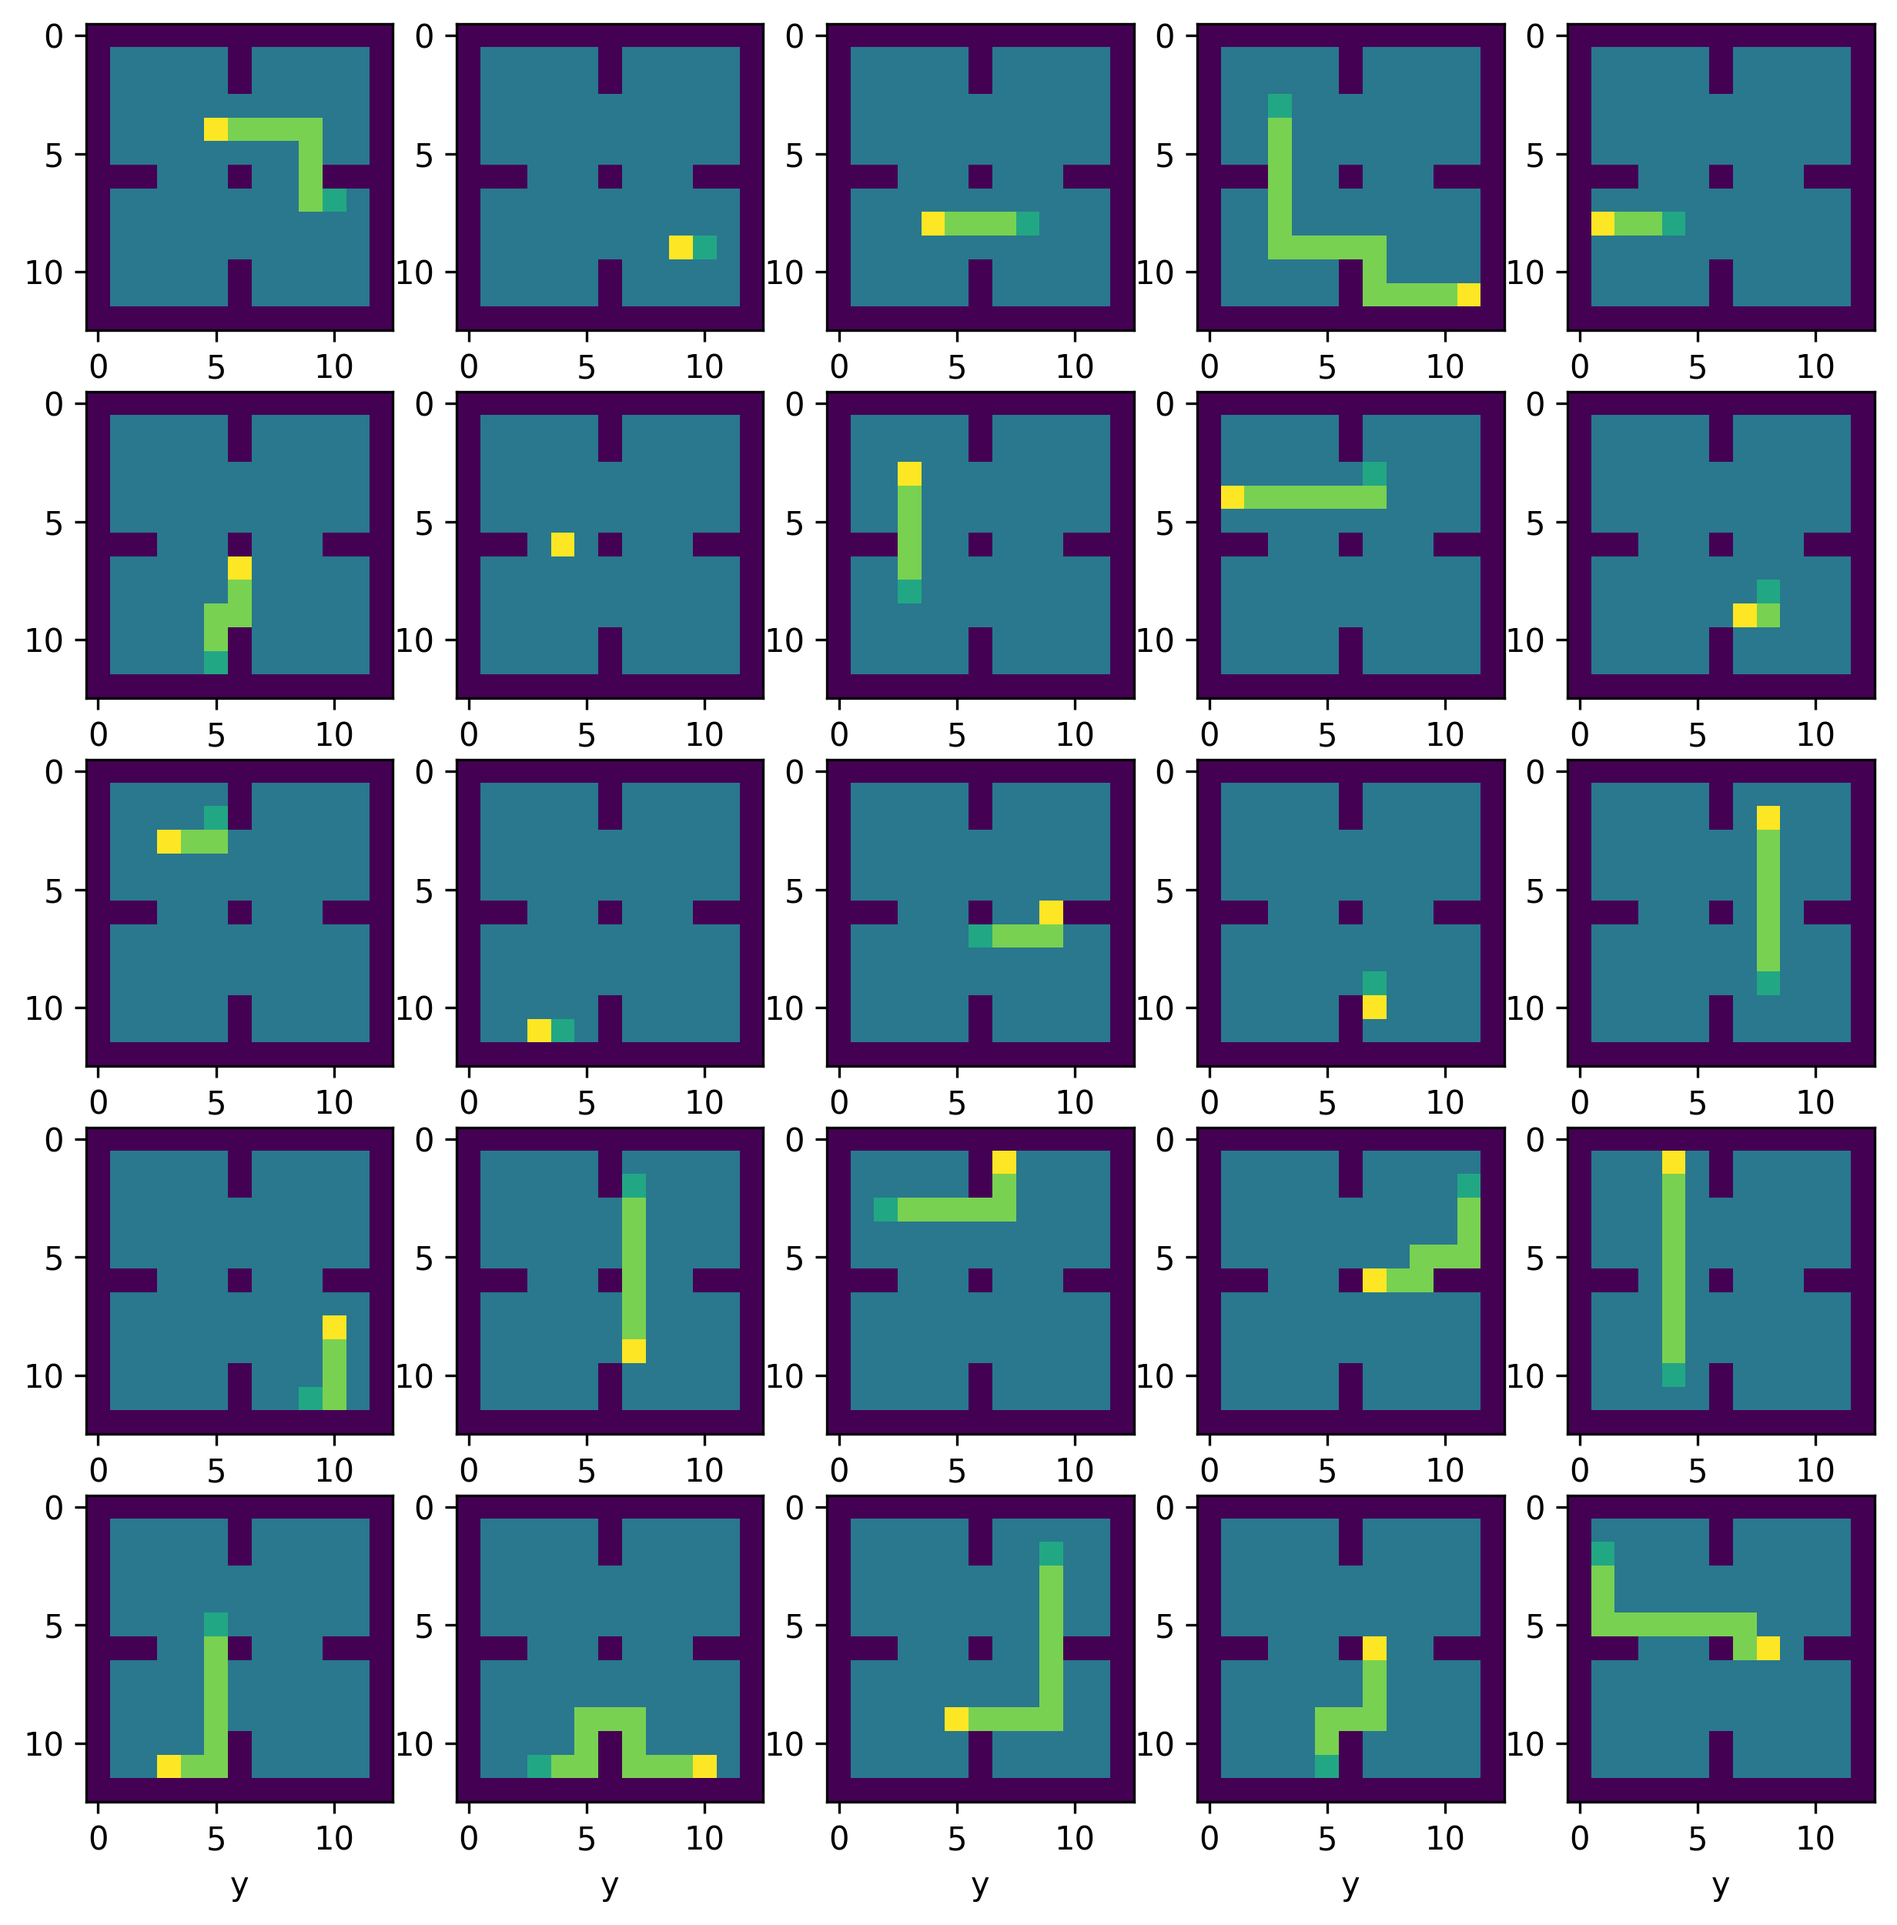
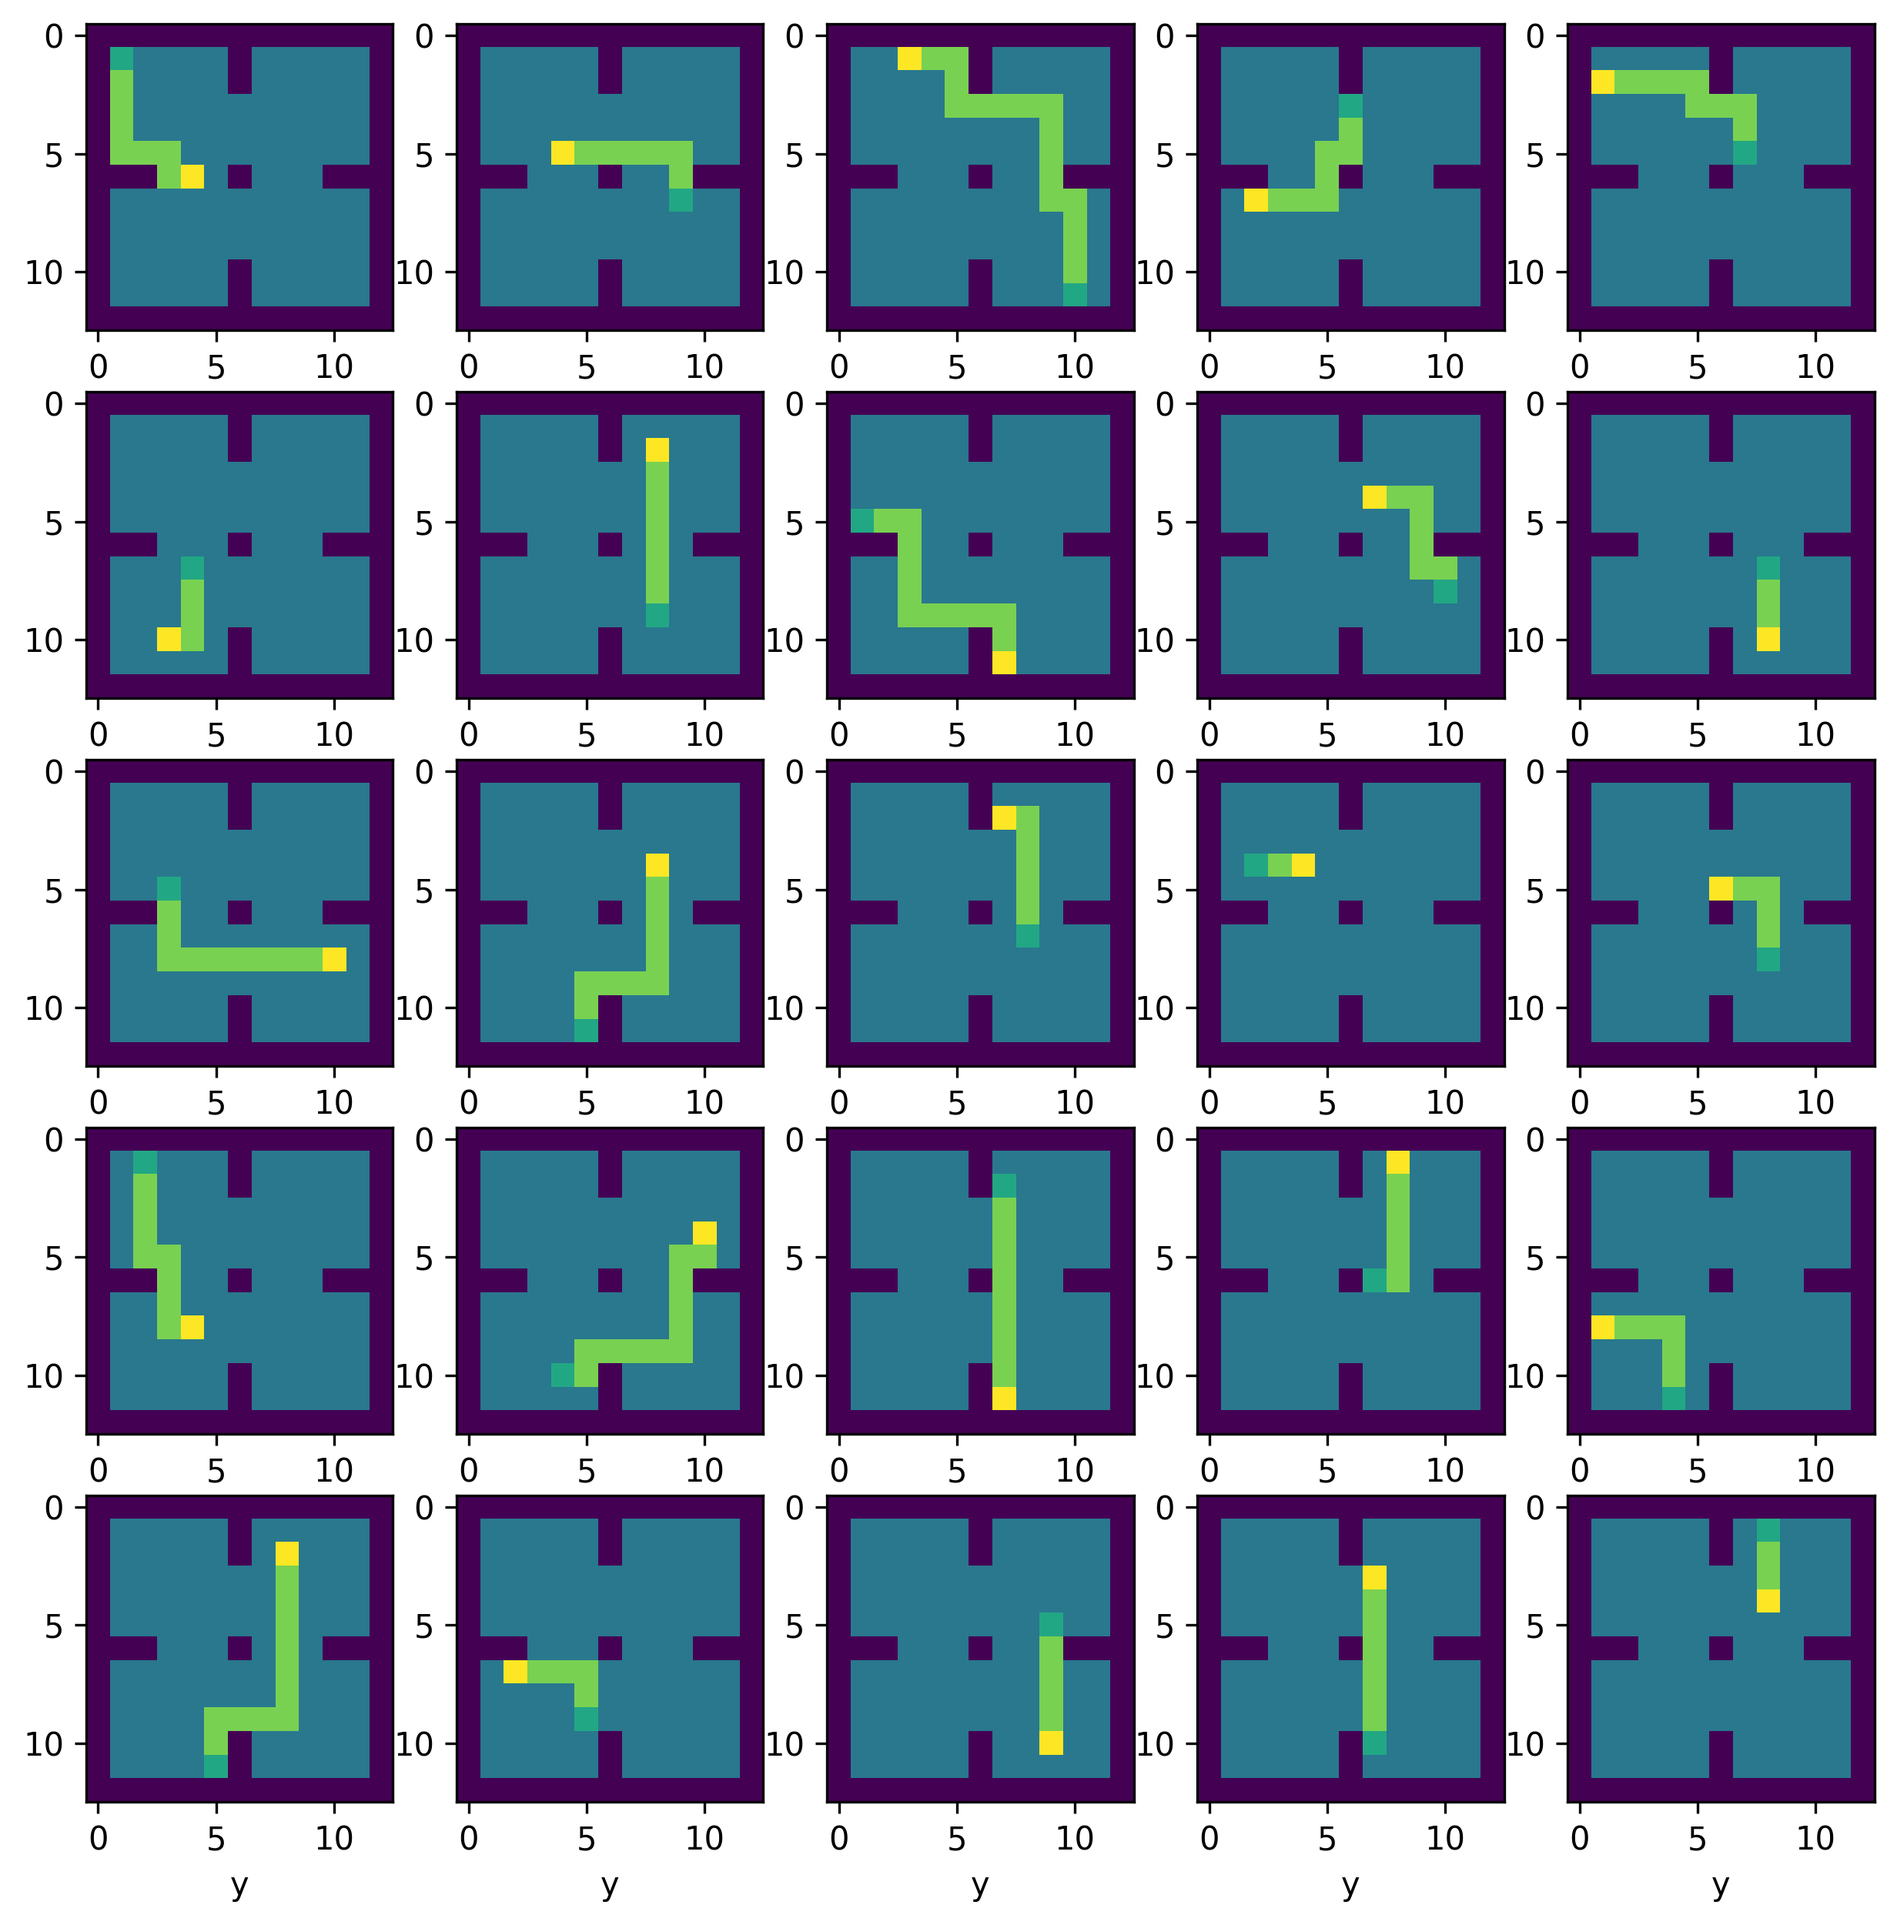
:tada: smooth functions

diff --git a/hw3/hw3q3/GCBC.py b/hw3/hw3q3/GCBC.py
@@ -222,14 +222,12 @@ def shortest_path_expert(env):
         # find shortest path
         path = BFS_search(env, s, g)
         # convert path to trajectory
-        traj = []
-        for state in path:
-            traj.append(state[0])
-        traj = np.array(traj)
-        # convert trajectory to actions
+        traj = [np.concatenate([s, g])]
         actions = []
         for state in path:
+            traj.append(np.concatenate([state[0], g]))
             actions.append(state[1])
+        traj = np.array(traj)
         actions = np.array(actions)
         # append to list
         expert_trajs.append(traj)
@@ -274,14 +272,8 @@ class GCBC:
         for traj, actions in zip(self.expert_trajs, self.expert_actions):
             # append expert experience into training data
             for state, action in zip(traj, actions):
-                # set goal state to the final state
-                goal = traj[-1]
-                # concatenate state and goal to get training state
-                training_state = np.concatenate([state, goal])
-                self._train_states.append(training_state)
-                # append action to training action
-                training_action = self.env.act_map[tuple(self.env.act_set[action])]
-                self._train_actions.append(training_action)
+                self._train_states.append(state)
+                self._train_actions.append(action)
         
         # END
 
@@ -298,14 +290,14 @@ class GCBC:
             # append expert experience into training data
             for i, (state, action) in enumerate(zip(traj, actions)):
                 # set goal state to a random selected future state in the same trajectory
-                goal_idx = np.random.randint(i, len(traj))
-                goal = traj[goal_idx]
+                goal_idx = np.random.randint(i+1, len(traj))
+                # for goal_idx in np.arange(i+1, len(traj)):
+                goal = traj[goal_idx][:2]
                 # concatenate state and goal to get training state
-                training_state = np.concatenate([state, goal])
+                training_state = np.concatenate([state[:2], goal])
                 self._train_states.append(training_state)
                 # append action to training action
-                training_action = self.env.act_map[tuple(self.env.act_set[action])]
-                self._train_actions.append(training_action)
+                self._train_actions.append(action)
         # END
 
         self._train_states = np.array(self._train_states).astype(np.float32) # size: (*, 4)
@@ -322,6 +314,9 @@ class GCBC:
             acc: (float) final accuracy of the trained policy
         """
         # WRITE CODE HERE
+        total_loss = 0.0
+        total_acc = 0.0
+        cnt = 0
         for ep in range(num_epochs):
             # shuffle data
             idx = np.arange(len(self._train_states))
@@ -337,17 +332,20 @@ class GCBC:
                 batch_actions = torch.from_numpy(batch_actions)
                 # forward pass
                 logits = self.model(batch_states)
-                # compute accuracy
-                acc = torch.sum(torch.argmax(logits, dim=1) == batch_actions).item() / len(batch_actions)
+                # compute accuracy NOTE: use sum instead of mean to avoid bool to float conversion
+                acc = torch.sum(torch.argmax(torch.softmax(logits, dim=1), dim=1) == batch_actions).item() / len(batch_actions)
+                total_acc += acc
                 # compute loss
                 loss = torch.nn.functional.cross_entropy(logits, batch_actions)
+                total_loss += loss.item()
+                # counter
+                cnt += 1
                 # backward pass
                 self.optimizer.zero_grad()
                 loss.backward()
                 self.optimizer.step()
         # END
-        loss = loss.item()
-        return loss, acc
+        return total_loss / cnt, total_acc / cnt
 
 
 def evaluate_gc(env, policy, n_episodes=50):
@@ -375,13 +373,15 @@ def generate_gc_episode(env, policy):
     state = env.reset()
     while not done:
         # WRITE CODE HERE
+
         # run policy
         state = torch.FloatTensor(state)
         logits = policy.model(state)
-        action = torch.argmax(logits).item()
+        action = torch.argmax(torch.softmax(logits, dim=0)).item()
 
         # step env
         state, _, done, info = env.step(action)
+
         # END
 
     return info
@@ -393,18 +393,18 @@ def generate_random_trajs(env):
 
     # WRITE CODE HERE
     for i in range(N):
-        traj, acts = [], []
         # reset environment
         s, g = env.sample_sg()
-        env.reset(s, g)
+        obs = env.reset(s, g)
+        traj, acts = [obs], []
         # generate random trajectory
         while True:
             # sample a random action
             a = np.random.randint(4)
             # transition to next state
-            next_state, _, done, _ = env.step(a)
+            obs, rew, done, info = env.step(a)
             # append to trajectory
-            traj.append(next_state)
+            traj.append(obs)
             acts.append(a)
             # check if done
             if done:
@@ -425,6 +425,7 @@ def generate_random_trajs(env):
 class Args:
     sample_mode: str = "expert" # "expert" or "random"
     mode: str = "vanilla" # "vanilla" or "relabel"
+    exp: str = "gcbc" # "gcbc" or "render" or "expert"
 
 
 def run_GCBC(args: Args):
@@ -455,8 +456,10 @@ def run_GCBC(args: Args):
 
         if mode == "vanilla":
             gcbc.generate_behavior_cloning_data()
-        else:
+        elif mode == "relabel":
             gcbc.generate_relabel_data()
+        else:
+            raise NotImplementedError
 
         print('training...')
         for e in trange(150):
@@ -465,7 +468,7 @@ def run_GCBC(args: Args):
             loss_vec.append(loss)
             acc_vec.append(acc)
             succ_vec.append(succ)
-            print(e, round(loss,3), round(acc,3), succ)
+            print('ep', e, ' loss', round(loss,3), ' acc', round(acc,3), ' succ', succ)
         loss_vecs.append(loss_vec)
         acc_vecs.append(acc_vec)
         succ_vecs.append(succ_vec)
@@ -478,13 +481,15 @@ def run_GCBC(args: Args):
     print('plotting...')
     from scipy.ndimage import uniform_filter
     # you may use uniform_filter(succ_vec, 5) to smooth succ_vec
+    succ_vec_smooth = uniform_filter(succ_vec, 5)
     plt.figure(figsize=(12, 3))
     # WRITE CODE HERE
     # plot success rate, training loss and training accuracy
     plt.subplot(1, 3, 1)
-    plt.plot(succ_vec)
+    plt.plot(succ_vec_smooth)
     plt.xlabel('Epoch')
     plt.ylabel('Success Rate')
+    plt.ylim(0, 1)
     plt.title('Success Rate')
     plt.subplot(1, 3, 2)
     plt.plot(loss_vec)
@@ -495,6 +500,7 @@ def run_GCBC(args: Args):
     plt.plot(acc_vec)
     plt.xlabel('Epoch')
     plt.ylabel('Accuracy')
+    plt.ylim(0, 1)
     plt.title('Accuracy')
     # END
     plt.savefig(f'p2_gcbc_{mode}_{sample_mode}.png', dpi=300)
@@ -505,6 +511,12 @@ def run_GCBC(args: Args):
 l, T = 5, 30
 env = FourRooms(l, T)
 ### Visualize the map
-# env.render_map()
-# shortest_path_expert(env)
-run_GCBC()
+args = tyro.cli(Args)
+if args.exp == "render":
+    env.render_map()
+elif args.exp == "expert":
+    shortest_path_expert(env)
+elif args.exp == "gcbc":
+    run_GCBC(args)
+else:
+    raise NotImplementedError

diff --git a/hw3/hw3q3/model_pytorch.py b/hw3/hw3q3/model_pytorch.py
@@ -9,11 +9,10 @@ class FullyConnectedModel(torch.nn.Module):
         # WRITE CODE HERE
         # Add layers to the model:
         # a fully connected layer with 10 units
+        self.fc1 = torch.nn.Linear(input_dim, 10)
         # a tanh activation
         # another fully connected layer with out_dim (the number of actions)
-        self.fc1 = torch.nn.Linear(input_dim, 10)
         self.fc2 = torch.nn.Linear(10, output_dim)
-
         # Do not include a softmax activation function if using Pytorch!
         # Pytorch's implementation of the CrossEnropyLoss() assumes that
         # the network has not applied a softmax to the output.
